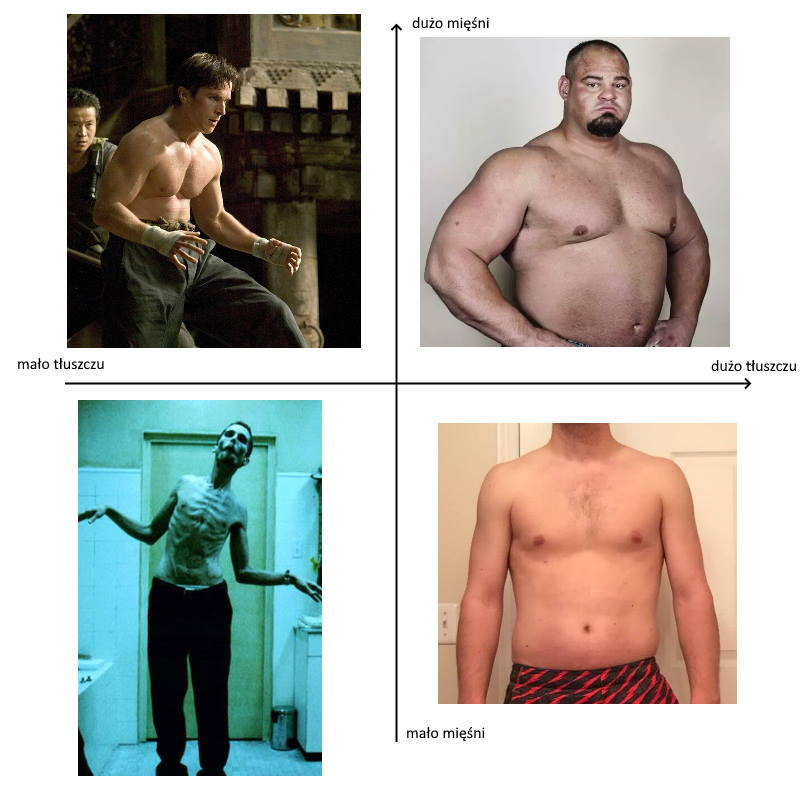
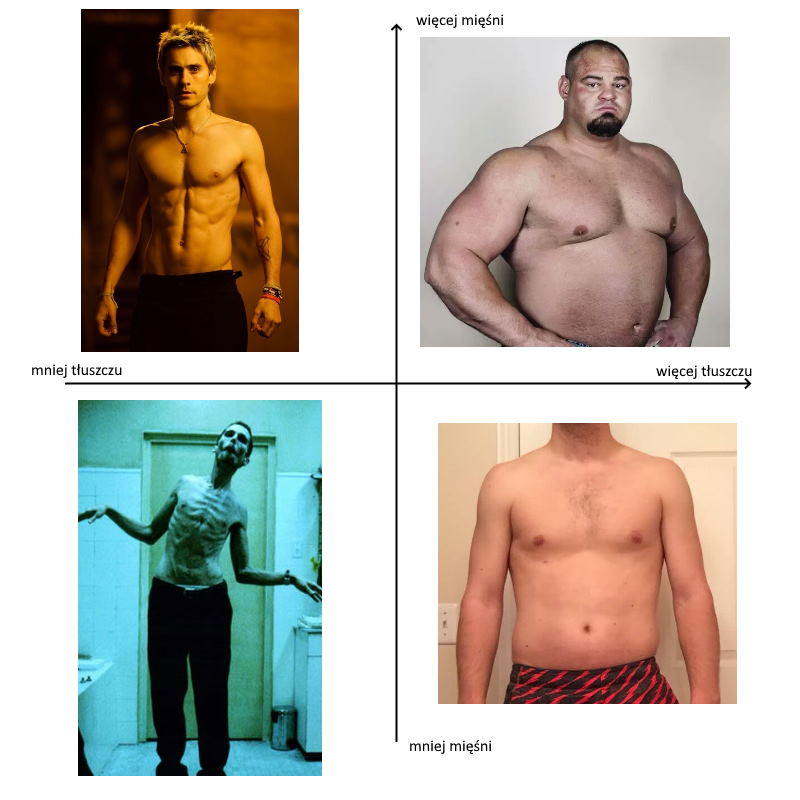
Update an image to better illustrate my point

diff --git a/docs/about.html b/docs/about.html
@@ -141,7 +141,7 @@
             <img class="img-responsive img-generated" src="/assets/img/skinny-fat.jpg" alt="">
             </picture>
             <div class="caption">
-                <figcaption>Rys. 1. Różne typy sylwetek na przykładzie mężczyzn. Źródło: kadr z filmu <a href="https://www.imdb.com/title/tt0468569/" rel="nofollow">The Dark Knight</a>, kadr z filmu <a href="https://www.imdb.com/title/tt0361862/?ref_=fn_al_tt_1" rel="nofollow">The Machinist</a>, <a href="https://www.quora.com/Is-it-normal-to-not-want-to-gain-visible-muscle" rel="nofollow">Quora</a>, <a href="https://legionathletics.com/skinny-fat/" rel="nofollow">Legion Athletics</a></figcaption>
+                <figcaption>Rys. 1. Różne typy sylwetek na przykładzie mężczyzn. Źródło: kadr z teledysku <a href="https://www.youtube.com/watch?v=MjyvlD0TwiA" rel="nofollow">30 Seconds To Mars &ldquo;Hurricane&rdquo;</a> , kadr z filmu <a href="https://www.imdb.com/title/tt0361862/?ref_=fn_al_tt_1" rel="nofollow">The Machinist</a>, <a href="https://www.quora.com/Is-it-normal-to-not-want-to-gain-visible-muscle" rel="nofollow">Quora</a>, <a href="https://legionathletics.com/skinny-fat/" rel="nofollow">Legion Athletics</a></figcaption>
             </div>
         </div>
     </figure>

diff --git a/docs/tags/humor.html b/docs/tags/humor.html
@@ -184,9 +184,9 @@
 		
         <div class="col-sm-4 col-sm-height tags-sidebar">
                 <a rel="tag" role="button" href="/tags/humor" class="btn btn-primary btn-sm"> humor (1)</a>
+                <a rel="tag" role="button" href="/tags/nawyki" class="btn btn-default btn-sm"> nawyki (1)</a>
                 <a rel="tag" role="button" href="/tags/zakupy" class="btn btn-default btn-sm"> zakupy (1)</a>
                 <a rel="tag" role="button" href="/tags/z%C5%82e-rady" class="btn btn-default btn-sm"> złe rady (1)</a>
-                <a rel="tag" role="button" href="/tags/nawyki" class="btn btn-default btn-sm"> nawyki (1)</a>
         </div>
     </div>
 </div>

diff --git a/docs/tags/nawyki.html b/docs/tags/nawyki.html
@@ -184,9 +184,9 @@
 		
         <div class="col-sm-4 col-sm-height tags-sidebar">
                 <a rel="tag" role="button" href="/tags/humor" class="btn btn-default btn-sm"> humor (1)</a>
+                <a rel="tag" role="button" href="/tags/nawyki" class="btn btn-primary btn-sm"> nawyki (1)</a>
                 <a rel="tag" role="button" href="/tags/zakupy" class="btn btn-default btn-sm"> zakupy (1)</a>
                 <a rel="tag" role="button" href="/tags/z%C5%82e-rady" class="btn btn-default btn-sm"> złe rady (1)</a>
-                <a rel="tag" role="button" href="/tags/nawyki" class="btn btn-primary btn-sm"> nawyki (1)</a>
         </div>
     </div>
 </div>

diff --git a/docs/tags/zakupy.html b/docs/tags/zakupy.html
@@ -184,9 +184,9 @@
 		
         <div class="col-sm-4 col-sm-height tags-sidebar">
                 <a rel="tag" role="button" href="/tags/humor" class="btn btn-default btn-sm"> humor (1)</a>
+                <a rel="tag" role="button" href="/tags/nawyki" class="btn btn-default btn-sm"> nawyki (1)</a>
                 <a rel="tag" role="button" href="/tags/zakupy" class="btn btn-primary btn-sm"> zakupy (1)</a>
                 <a rel="tag" role="button" href="/tags/z%C5%82e-rady" class="btn btn-default btn-sm"> złe rady (1)</a>
-                <a rel="tag" role="button" href="/tags/nawyki" class="btn btn-default btn-sm"> nawyki (1)</a>
         </div>
     </div>
 </div>

diff --git a/docs/tags/złe-rady.html b/docs/tags/złe-rady.html
@@ -184,9 +184,9 @@
 		
         <div class="col-sm-4 col-sm-height tags-sidebar">
                 <a rel="tag" role="button" href="/tags/humor" class="btn btn-default btn-sm"> humor (1)</a>
+                <a rel="tag" role="button" href="/tags/nawyki" class="btn btn-default btn-sm"> nawyki (1)</a>
                 <a rel="tag" role="button" href="/tags/zakupy" class="btn btn-default btn-sm"> zakupy (1)</a>
                 <a rel="tag" role="button" href="/tags/z%C5%82e-rady" class="btn btn-primary btn-sm"> złe rady (1)</a>
-                <a rel="tag" role="button" href="/tags/nawyki" class="btn btn-default btn-sm"> nawyki (1)</a>
         </div>
     </div>
 </div>
